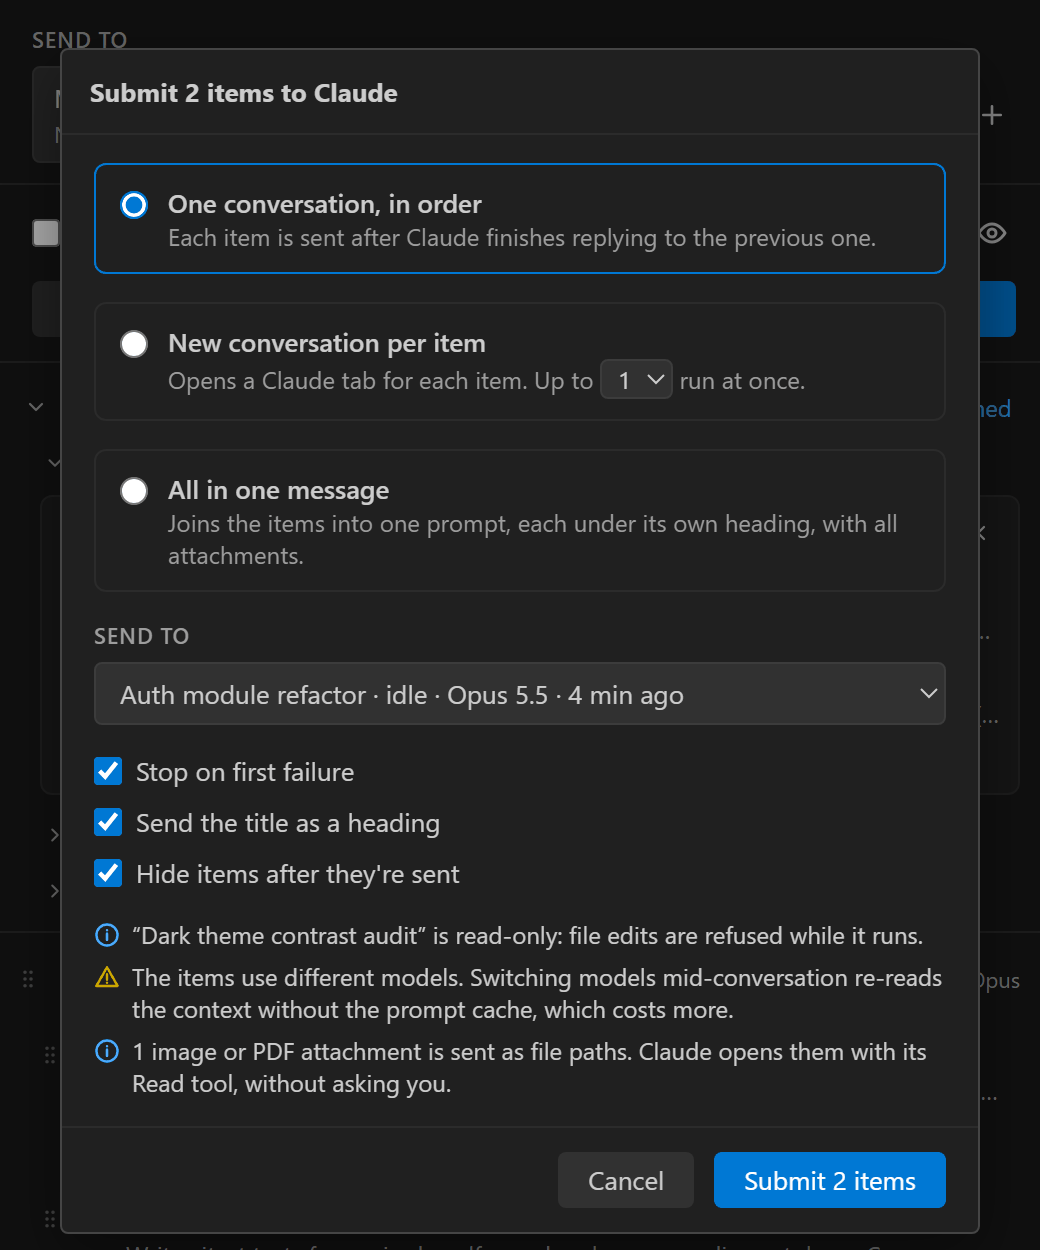
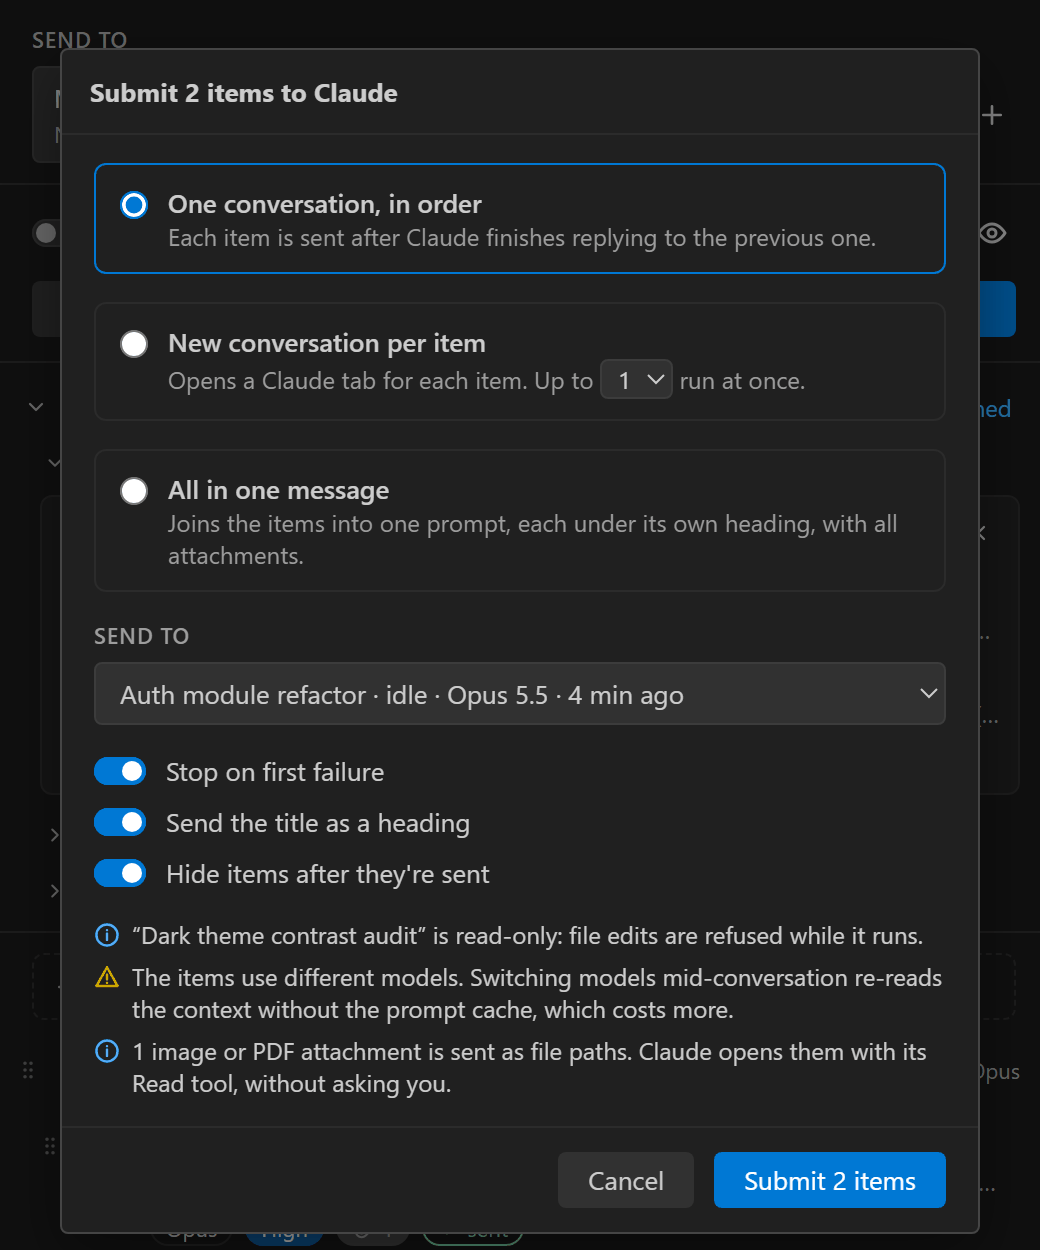
0.5.2: switches instead of checkboxes
Every checkbox in the extension is drawn as a toggle switch: item and
category selection, select all, and the Submit dialog's options. They
stay native inputs with role="switch", so the keyboard and screen
readers keep working.

diff --git a/packages/vscode-extension/webview/styles.css b/packages/vscode-extension/webview/styles.css
@@ -155,13 +155,63 @@ select:focus {
   outline: 1px solid var(--focus);
   outline-offset: -1px;
 }
-input[type='checkbox'],
 input[type='radio'] {
   margin: 0;
   width: 14px;
   height: 14px;
   flex: none;
   accent-color: var(--vscode-button-background);
+}
+/* Checkboxes are drawn as switches; they stay native inputs, so Space and Tab still work. */
+input[type='checkbox'] {
+  appearance: none;
+  -webkit-appearance: none;
+  position: relative;
+  flex: none;
+  width: 26px;
+  height: 14px;
+  margin: 0;
+  border-radius: 7px;
+  background: var(--vscode-input-background, rgba(128, 128, 128, 0.25));
+  box-shadow: inset 0 0 0 1px var(--vscode-checkbox-border, var(--input-border, rgba(128, 128, 128, 0.5)));
+  cursor: pointer;
+  transition: background 0.15s, box-shadow 0.15s;
+}
+input[type='checkbox']::after {
+  content: '';
+  position: absolute;
+  top: 2px;
+  left: 2px;
+  width: 10px;
+  height: 10px;
+  border-radius: 50%;
+  background: var(--muted);
+  transition: transform 0.15s, background 0.15s;
+}
+input[type='checkbox']:checked {
+  background: var(--vscode-button-background);
+  box-shadow: inset 0 0 0 1px var(--vscode-button-background);
+}
+input[type='checkbox']:checked::after {
+  transform: translateX(12px);
+  background: var(--vscode-button-foreground, #fff);
+}
+input[type='checkbox']:hover:not(:disabled) {
+  box-shadow: inset 0 0 0 1px var(--focus);
+}
+input[type='checkbox']:focus-visible {
+  outline: 1px solid var(--focus);
+  outline-offset: 2px;
+}
+input[type='checkbox']:disabled {
+  opacity: 0.4;
+  cursor: default;
+}
+@media (prefers-reduced-motion: reduce) {
+  input[type='checkbox'],
+  input[type='checkbox']::after {
+    transition: none;
+  }
 }
 .icon {
   flex: none;
@@ -660,7 +710,7 @@ input[type='radio'] {
   border: 1px solid transparent;
 }
 .item > input[type='checkbox'] {
-  margin-top: 2px;
+  margin-top: 3px;
 }
 .item:hover {
   background: var(--hover);
@@ -1002,8 +1052,9 @@ input[type='radio'] {
 }
 .check {
   display: flex;
-  gap: 7px;
+  gap: 10px;
   align-items: center;
+  cursor: pointer;
 }
 .warnings {
   list-style: none;

diff --git a/packages/vscode-extension/webview/SubmitDialog.tsx b/packages/vscode-extension/webview/SubmitDialog.tsx
@@ -161,22 +161,22 @@ export function SubmitDialog({ snap, itemIds, onClose, onSubmitted }: { snap: Sn
             </div>
           ) : (
             <label className="check">
-              <input type="checkbox" checked={prefill} onChange={e => setTarget(e.target.checked ? 'prefill' : 'newTab')} />
+              <input type="checkbox" role="switch" checked={prefill} onChange={e => setTarget(e.target.checked ? 'prefill' : 'newTab')} />
               Prefill only (text, no settings or attachments)
             </label>
           )}
 
           <div className="checks">
             <label className="check">
-              <input type="checkbox" checked={options.stopOnError} onChange={e => set({ stopOnError: e.target.checked })} />
+              <input type="checkbox" role="switch" checked={options.stopOnError} onChange={e => set({ stopOnError: e.target.checked })} />
               Stop on first failure
             </label>
             <label className="check">
-              <input type="checkbox" checked={options.titleAsHeading} onChange={e => set({ titleAsHeading: e.target.checked })} />
+              <input type="checkbox" role="switch" checked={options.titleAsHeading} onChange={e => set({ titleAsHeading: e.target.checked })} />
               Send the title as a heading
             </label>
             <label className="check">
-              <input type="checkbox" checked={options.hideAfter} onChange={e => set({ hideAfter: e.target.checked })} />
+              <input type="checkbox" role="switch" checked={options.hideAfter} onChange={e => set({ hideAfter: e.target.checked })} />
               Hide items after they're sent
             </label>
           </div>

diff --git a/packages/vscode-extension/webview/Sidebar.tsx b/packages/vscode-extension/webview/Sidebar.tsx
@@ -99,7 +99,7 @@ export function Sidebar({ snap }: { snap: Snapshot }) {
       <div className="toolbar">
         <label className="select-all">
           <input
-            type="checkbox"
+            type="checkbox" role="switch"
             checked={allSelected}
             onChange={e => setSelected(e.target.checked ? visibleIds : [])}
             aria-label="Select all items"
@@ -350,7 +350,7 @@ function CategorySection(props: ListProps & { categoryId: string; itemIds: strin
           <Icon name="chev" size={12} />
         </button>
         <input
-          type="checkbox"
+          type="checkbox" role="switch"
           checked={allSelected}
           disabled={itemIds.length === 0}
           onChange={e => props.onSelectMany(itemIds, e.target.checked)}
@@ -432,7 +432,7 @@ function ItemCard(props: ListProps & { item: ChatItem }) {
         <Icon name="grip" size={12} />
       </button>
       <input
-        type="checkbox"
+        type="checkbox" role="switch"
         checked={selected.has(item.id)}
         onClick={e => e.stopPropagation()}
         onChange={e => onToggle(item.id, e.target.checked)}

diff --git a/README.md b/README.md
@@ -58,9 +58,9 @@ The Itemizer has two parts, and you install both:
 
 ### 1. Install the VS Code extension
 
-1. Download `claude-chat-itemizer-0.5.1.vsix` from the [latest release](https://github.com/ameralqarallih-lgtm/claude-chat-itemizer/releases/latest).
+1. Download `claude-chat-itemizer-0.5.2.vsix` from the [latest release](https://github.com/ameralqarallih-lgtm/claude-chat-itemizer/releases/latest).
 2. Install it, either:
-   - from the command line: `code --install-extension claude-chat-itemizer-0.5.1.vsix`
+   - from the command line: `code --install-extension claude-chat-itemizer-0.5.2.vsix`
    - or in VS Code: **Extensions** view → **⋯** menu → **Install from VSIX…** → pick the file.
 3. Reload VS Code if it asks. A **Chat Itemizer** icon appears in the activity bar.
 
@@ -143,7 +143,7 @@ Attachments are stored as copies in the workspace's private VS Code storage, so 
 
 ### Send them
 
-Tick the items you want, then:
+Switch on the items you want, then:
 
 - **⚡ Quick** sends them to the **Send to** chat, in list order, using **that chat's** current model and effort. Item settings are ignored; attachments are still sent. The ⚡ on a single item does the same for that item.
 - **Submit…** opens a dialog:

diff --git a/CHANGELOG.md b/CHANGELOG.md
@@ -1,5 +1,10 @@
 # Changelog
 
+## 0.5.2 (2026-10-30)
+
+### Changed
+- Checkboxes are now toggle switches: item and category selection, select all, and the Submit dialog's options. They still work with the keyboard (Tab, Space) and are announced as switches.
+
 ## 0.5.1 (2026-10-30)
 
 ### Added
